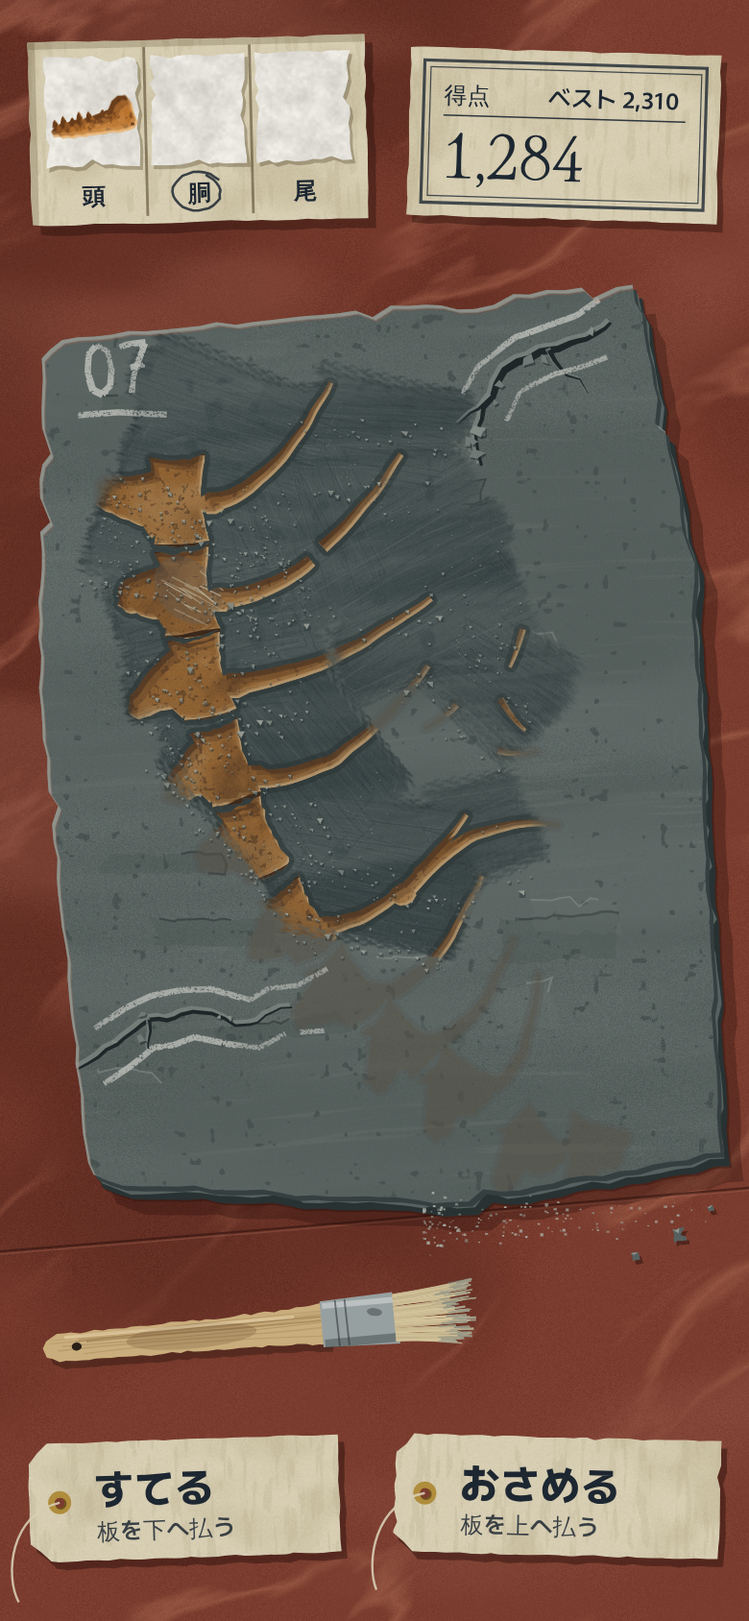
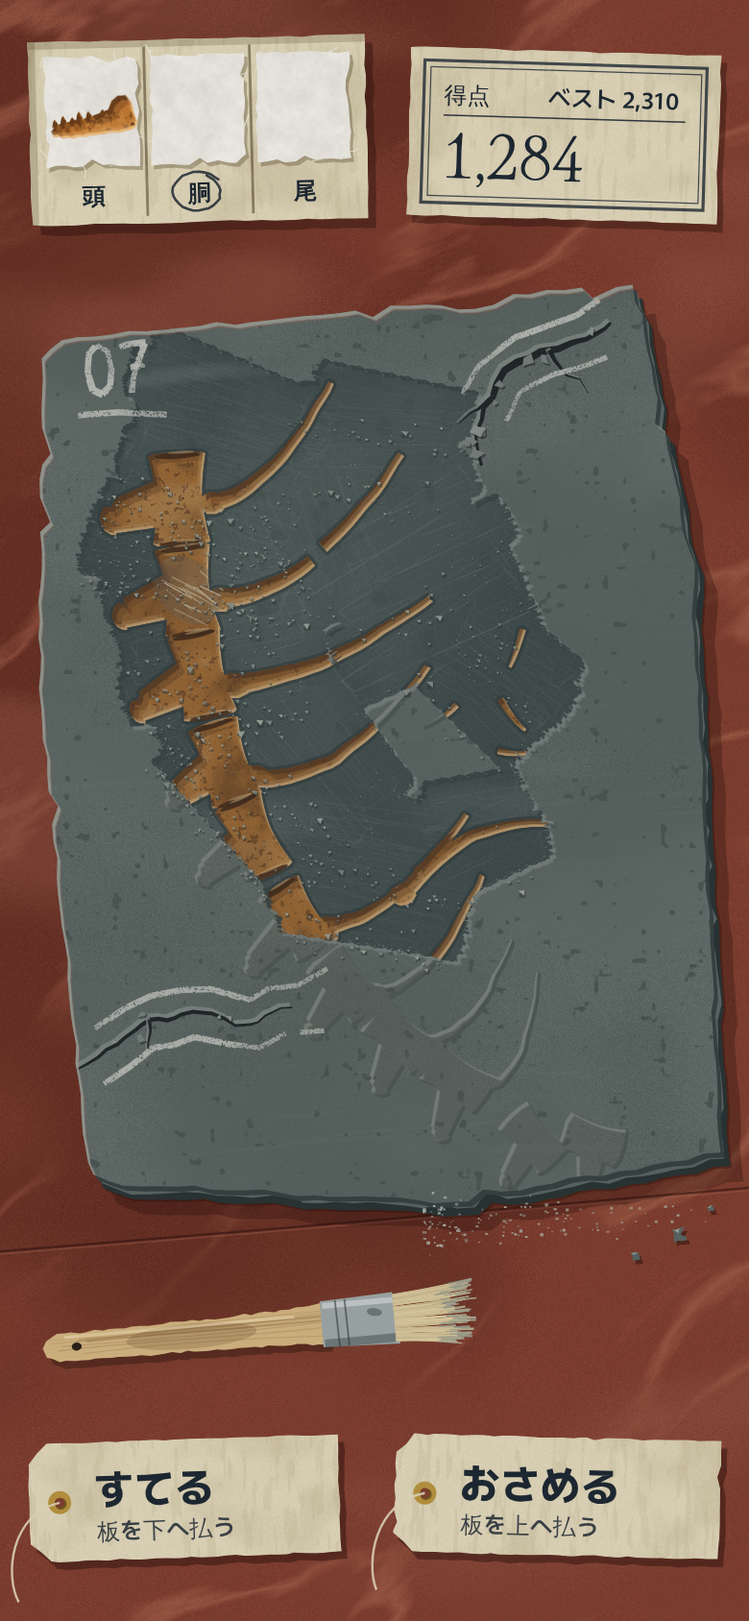
arcade: 012 デザイン事前審査 PASS（作業中）
Claude-Session: https://claude.ai/code/session_01QkUvG7rhwuqzh5G9T4Jq1S

diff --git a/arcade/games/012-fossil-brush/design/shale.js b/arcade/games/012-fossil-brush/design/shale.js
@@ -79,24 +79,33 @@ function rot(pts, cx, cy, a) { const c = Math.cos(a), s = Math.sin(a); return pt
 // ---------- 骨の部品（架空の生き物「ながくびとかげ」「よろいうお」） ----------
 // 椎骨: 糸巻き形の椎体＋傾いた棘突起＋前後の小さな突起。1個ずつ形を変える
 function vertebra(cx, cy, ang, len, hgt, seed, flip = 1) {
-  setSeed(seed); const L = len / 2, H = hgt / 2, k = rr(0.7, 0.8), lean = rr(-0.1, 0.18) * len;
-  // 椎体: 上下がくびれ、両端がふくらむ糸巻き
-  const body = []; for (let i = 0; i <= 12; i++) { const t = i / 12, x = -L + t * len, pinch = 1 - (1 - k) * Math.sin(Math.PI * t); body.push([x, -H * pinch]); }
-  body.push([L + rr(1, 2.5), -H * 0.45], [L + rr(1.5, 3), H * 0.1], [L + rr(1, 2.5), H * 0.55]);
-  for (let i = 12; i >= 0; i--) { const t = i / 12, x = -L + t * len, pinch = 1 - (1 - k) * Math.sin(Math.PI * t); body.push([x, H * pinch]); }
-  body.push([-L + rr(1.5, 3), H * 0.4], [-L + rr(2, 3.5), 0], [-L + rr(1.5, 3), -H * 0.4]);
-  // 神経弓＋棘突起: 椎体の上の台形から立つ、幅のある板。上の端は丸く、角が1つ欠ける
-  const sp = hgt * rr(0.8, 1.05), bw = len * rr(0.72, 0.82), tw = len * rr(0.34, 0.44), top = -H * k - sp;
-  const spine = [[-bw / 2, -H * k + 2], [-bw / 2 + 3, -H * k - sp * 0.22], [-tw / 2 + lean, top + 5], [-tw / 2 + lean + 3.5, top + rr(0, 1)], [tw / 2 + lean - 4, top - rr(0.5, 2)], [tw / 2 + lean, top + rr(3, 6)], [bw / 2 - 3, -H * k - sp * 0.25], [bw / 2 + rr(2, 4), -H * k - sp * 0.12], [bw / 2, -H * k + 2]];
+  setSeed(seed); const L = len / 2, H = hgt / 2, k = rr(0.74, 0.82), lean = rr(0.18, 0.26) * len; // 棘は尾の側へ傾く
+  // 椎体: 左右の端が少し広がった短い円柱（上下の辺はなめらかにくびれる。尖った角を作らない）
+  const body = [];
+  for (let i = 0; i <= 14; i++) { const t = i / 14, x = -L + t * len, pinch = 1 - (1 - k) * Math.sin(Math.PI * t); body.push([x, -H * pinch]); }
+  for (let i = 0; i <= 6; i++) { const a = -Math.PI / 2 + i / 6 * Math.PI; body.push([L + Math.cos(a) * rr(1.6, 2.4), Math.sin(a) * H]); }
+  for (let i = 14; i >= 0; i--) { const t = i / 14, x = -L + t * len, pinch = 1 - (1 - k) * Math.sin(Math.PI * t); body.push([x, H * pinch]); }
+  for (let i = 0; i <= 6; i++) { const a = Math.PI / 2 + i / 6 * Math.PI; body.push([-L + Math.cos(a) * rr(1.2, 2), Math.sin(a) * H]); }
+  // 棘: 1本の幅広い板。先は丸く、丸い角が1つだけ欠ける
+  const sp = hgt * rr(0.95, 1.15), bw = len * rr(0.5, 0.56), tw = len * rr(0.34, 0.4), base = -H * k + 3, top = -H * k - sp;
+  const spine = [[-bw / 2 + lean * 0.15, base], [-tw / 2 + lean * 0.85, top + tw * 0.5]];
+  const chipAt = (rnd() * 7) | 0;
+  for (let i = 0; i <= 8; i++) { const a = Math.PI + i / 8 * Math.PI, r = tw / 2 * (i === chipAt ? 0.72 : 1); spine.push([lean + Math.cos(a) * r, top + tw / 2 + Math.sin(a) * r * 0.9]); }
+  spine.push([tw / 2 + lean * 0.85, top + tw * 0.5], [bw / 2 + lean * 0.15, base]);
   const f = (p) => rot(p.map(([x, y]) => [x, y * flip]), cx, cy, ang);
-  return [f(chipped(body, 3, 0.35, 0.03, 1.5)), f(chipped(spine, 3, 0.4, 0.05, 2))];
+  const v = [f(body), f(spine)];
+  v.ends = [[cx + Math.cos(ang) * (L + 0.5), cy + Math.sin(ang) * (L + 0.5)], [cx - Math.cos(ang) * (L - 0.5), cy - Math.sin(ang) * (L - 0.5)]].map((p) => [...p, ang, H * 0.78]);
+  return v;
 }
+// 関節面: 椎体の両端に暗い細い楕円（骨の層に描く）
+function vertebraEnds(L, list) { for (const [x, y, a, r] of list) { L.save(); L.translate(x, y); L.rotate(a); L.fillStyle = "rgba(70,36,14,0.9)"; L.beginPath(); L.ellipse(0, 0, 1.6, r, 0, 0, 7); L.fill(); L.fillStyle = "rgba(240,195,137,0.5)"; L.beginPath(); L.ellipse(-1.6, -r * 0.2, 0.7, r * 0.6, 0, 0, 7); L.fill(); L.restore(); } }
 // 肋骨: 先へ細くなる弓なりの帯。折れていれば2本に分けてずらす
 function rib(p0, p1, p2, w0, seed, brk = -1, shift = [0, 0]) {
   setSeed(seed); const pts = quad(p0, p1, p2, 26).map(([x, y], i) => [x + (vnoise(i * 0.4, seed, 3) - 0.5) * 1.4, y + (vnoise(i * 0.4, seed, 7) - 0.5) * 1.4]);
-  const w = (t) => w0 * (1 - t * 0.72) * (t < 0.08 ? 0.75 + t * 3 : 1);
+  const w = (t) => w0 * (1 - Math.pow(t, 0.8) * 0.66) * (t < 0.08 ? 0.75 + t * 3 : 1);
   const [hx, hy] = pts[1], knob = []; for (let i = 0; i < 10; i++) { const a = i / 10 * Math.PI * 2; knob.push([hx + Math.cos(a) * w0 * 0.75 * rr(0.85, 1.1), hy + Math.sin(a) * w0 * 0.6]); }
-  if (brk < 0) return [ribbon(pts, w), knob];
+  const jag = (poly) => { const n = poly.length / 2, A = poly[n - 1], B = poly[n], dx = pts[pts.length - 1][0] - pts[pts.length - 3][0], dy = pts[pts.length - 1][1] - pts[pts.length - 3][1], dl = Math.hypot(dx, dy) || 1; const m = [(A[0] + B[0]) / 2 + (A[0] - B[0]) * rr(-0.3, 0.3) + dx / dl * rr(-3, 1.5), (A[1] + B[1]) / 2 + (A[1] - B[1]) * rr(-0.3, 0.3) + dy / dl * rr(-3, 1.5)]; poly.splice(n, 0, m); return poly; };
+  if (brk < 0) return [jag(ribbon(pts, w)), knob];
   const n = Math.round(brk * 26), a = pts.slice(0, n + 1), b = pts.slice(n).map(([x, y]) => [x + shift[0], y + shift[1]]);
   return [ribbon(a, (t) => w(t * brk)), ribbon(b, (t) => w(brk + t * (1 - brk))), knob];
 }
@@ -129,14 +138,17 @@ function boneLayer(mask, seed, pits = []) {
 
 // ---------- 母岩 ----------
 // 掘った後の母岩: 青鈍の層理（不揃いな幅・明るさ）＋ごくまばらな雲母
-function shaleTex(w, h, seed, ang) {
-  const A = rgb("#3c4849"), Bc = rgb("#5a6664"), Lm = rgb("#7d8883"), F = rgb("#b9beb4"), sn = Math.sin(ang), cs = Math.cos(ang);
+function shaleTex(w, h, seed, ang, nb) {
+  const A = rgb("#404c4d"), Bc = rgb("#55615f"), Lm = rgb("#6f7a76"), F = rgb("#b9beb4"), sn = Math.sin(ang), cs = Math.cos(ang);
+  setSeed(seed * 7 + 1); const n = nb || (2 + (rnd() < 0.5 ? 1 : 0)), bands = [];
+  let u = h * rr(0.1, 0.25); for (let k = 0; k < n; k++) { bands.push([u, rr(3, 14), rr(0.5, 1), rnd() < 0.7 ? 1 : -1]); u += h * rr(0.18, 0.5); }
   return pixelTex(w, h, (x, y, px, py) => {
-    const u = -x * sn + y * cs + 14 * fbm(x * 0.012, y * 0.012, seed + 2, 3), v = x * cs + y * sn;
-    const band = fbm(u * 0.035, v * 0.002, seed, 4); let c = mixc(A, Bc, sstep(0.3, 0.72, band));
-    const thin = fbm(u * 0.11, v * 0.018, seed + 9, 3); c = mixc(c, Lm, sstep(0.68, 0.76, thin) * 0.3 * sstep(0.4, 0.7, fbm(v * 0.02, u * 0.01, seed + 4, 3)));
-    const pits = fbm(x * 0.09, y * 0.09, seed + 13, 2); c = mixc(c, A, sstep(0.68, 0.8, pits) * 0.5);
-    const n = hash2(px, py, seed); if (n > 0.9975 && fbm(x * 0.02, y * 0.02, seed + 21, 2) > 0.52) c = mixc(c, F, 0.7);
+    const uu = -x * sn + y * cs + 7 * (fbm(x * 0.008, y * 0.004, seed + 2, 2) - 0.5) * 2, v = x * cs + y * sn;
+    let c = mixc(A, Bc, sstep(0.3, 0.75, fbm(x * 0.007, y * 0.007, seed, 4)));
+    for (let k = 0; k < bands.length; k++) { const [u0, bw, st, sg] = bands[k], d = Math.abs(uu - u0) / bw; if (d > 1.6) continue;
+      const fade = sstep(0.38, 0.62, fbm(v * 0.008 + k * 13, k * 7.3, seed + 4, 3)) * st, amt = Math.max(0, 1 - d * d) * fade; c = mixc(c, sg > 0 ? Lm : A, amt * 0.7); }
+    const pits = fbm(x * 0.09, y * 0.09, seed + 13, 2); c = mixc(c, A, sstep(0.7, 0.8, pits) * 0.4);
+    const nn = hash2(px, py, seed); if (nn > 0.9975 && fbm(x * 0.02, y * 0.02, seed + 21, 2) > 0.52) c = mixc(c, F, 0.7);
     const g = (hash2(px, py, seed + 1) - 0.5) * (6 + 10 * fbm(x * 0.03, y * 0.03, seed + 3, 2)); return [c[0] + g, c[1] + g, c[2] + g, 1];
   });
 }
@@ -145,8 +157,8 @@ function crustTex(w, h, seed, ang) {
   const A = rgb("#636d69"), Bc = rgb(C.crust), Lt = rgb("#8f978f"), Dk = rgb("#4c5653"), sn = Math.sin(ang), cs = Math.cos(ang);
   return pixelTex(w, h, (x, y, px, py) => {
     const u = -x * sn + y * cs + 12 * fbm(x * 0.008, y * 0.008, seed + 2, 3), v = x * cs + y * sn;
-    let c = mixc(A, Bc, sstep(0.28, 0.72, fbm(u * 0.025, v * 0.004, seed, 4)));
-    const st = fbm(u * 0.32, v * 0.012, seed + 6, 3); c = mixc(c, Lt, sstep(0.6, 0.78, st) * 0.22 * sstep(0.4, 0.65, fbm(v * 0.012, u * 0.02, seed + 7, 2)));
+    let c = mixc(A, Bc, sstep(0.28, 0.72, fbm(u * 0.012, v * 0.008, seed, 4)));
+    const st = fbm(u * 0.32, v * 0.012, seed + 6, 3); c = mixc(c, Lt, sstep(0.62, 0.78, st) * 0.1 * sstep(0.4, 0.65, fbm(v * 0.012, u * 0.02, seed + 7, 2)));
     const pit = fbm(x * 0.2, y * 0.2, seed + 8, 2); c = mixc(c, Dk, sstep(0.76, 0.84, pit) * 0.8);
     const g = (hash2(px, py, seed) - 0.5) * (6 + 14 * sstep(0.35, 0.7, fbm(x * 0.015, y * 0.015, seed + 11, 2))); return [c[0] + g, c[1] + g, c[2] + g * 0.95, 1];
   });
@@ -160,7 +172,7 @@ function flakeSteps(g, cx, cy, rw, rh, ang, n, seed) {
     const low = rnd() < 0.6; g.fillStyle = low ? "rgba(70,80,77,0.22)" : "rgba(150,158,150,0.14)"; g.fill(pathOf(p));
     // 段の縁は一辺の一部だけ（低い段は上側が暗い崖、高い段は上側が明るい）
     const i0 = (rnd() * p.length * 0.3) | 0, edge = p.slice(i0, i0 + Math.max(3, (p.length * rr(0.2, 0.4)) | 0));
-    g.strokeStyle = low ? "rgba(38,46,46,0.55)" : "rgba(178,185,175,0.5)"; g.lineWidth = rr(0.8, 1.3); g.stroke(pathOf(edge, false));
+    g.strokeStyle = "rgba(170,178,168,0.45)"; g.lineWidth = rr(0.8, 1.3); g.stroke(pathOf(edge, false));
   }
 }
 // 作業台: 弁柄のリノリウム。ゆがんだ大理石模様（筋は斜め・途切れる）、すり減った明るい所、細かい傷
@@ -183,7 +195,7 @@ function bristleStamps(width, n = 4) {
   const out = [];
   for (let k = 0; k < n; k++) {
     setSeed(900 + k); const s = makeCanvas(width + 8, 14);
-    for (let i = 0; i < width * 2.2; i++) { const x = 4 + rr(0, width), lenY = rr(2, 9) * (1 - Math.pow(Math.abs(x - 4 - width / 2) / (width / 2), 3) * 0.7); s.fillStyle = `rgba(0,0,0,${rr(0.15, 0.55)})`; s.fillRect(x, 7 - lenY / 2 + rr(-1.5, 1.5), rr(0.6, 1.4), lenY); }
+    for (let i = 0; i < width * 2.2; i++) { const x = 4 + rr(0, width), lenY = rr(2, 9) * (1 - Math.pow(Math.abs(x - 4 - width / 2) / (width / 2), 3) * 0.7); s.fillStyle = "#000"; s.fillRect(Math.round(x * 2) / 2, Math.round((7 - lenY / 2 + rr(-1.5, 1.5)) * 2) / 2, rr(1, 1.6), lenY); }
     out.push(s);
   }
   return out;
@@ -201,7 +213,7 @@ function scrape(layer, stamps, pts, strength = 0.5, step = 2.2) {
 function brushTracks(g, pts, width, seed) {
   setSeed(seed); const r = resample(pts, 3);
   for (let k = 0; k < width * 0.22; k++) {
-    const off = rr(-width / 2, width / 2), lt = rnd() < 0.5; g.strokeStyle = lt ? "rgba(140,152,146,0.14)" : "rgba(30,40,42,0.16)"; g.lineWidth = rr(0.4, 0.9); g.beginPath();
+    const off = rr(-width / 2, width / 2), lt = rnd() < 0.5; g.strokeStyle = lt ? "rgba(140,152,146,0.14)" : "rgba(120,132,128,0.10)"; g.lineWidth = rr(0.4, 0.9); g.beginPath();
     let started = false; for (let i = 1; i < r.length; i++) { const [ax, ay] = r[i - 1], [bx, by] = r[i]; let nx = -(by - ay), ny = bx - ax; const n = Math.hypot(nx, ny) || 1; nx /= n; ny /= n; if (vnoise(i * 0.15, k, seed) < 0.45) { started = false; continue; } const x = bx + nx * off, y = by + ny * off; started ? g.lineTo(x, y) : g.moveTo(x, y); started = true; }
     g.stroke();
   }
@@ -304,3 +316,22 @@ function stampText(g, txt, x, y, font, seed, col = C.ink, a = 0.9) {
   s.globalCompositeOperation = "destination-out"; for (let i = 0; i < 260; i++) { s.fillStyle = `rgba(0,0,0,${rr(0.3, 0.9)})`; s.fillRect(x + rr(-4, g.measureText(txt).width + 4), y + rr(-30, 6), rr(0.6, 2.4), rr(0.6, 1.8)); }
   g.globalAlpha = a * 0.35; blit(g, s, 1.6, 1.2); g.globalAlpha = a; blit(g, s); g.restore();
 }
+
+// こする前の骨の影 = 浮き彫り（左上に明るい縁・右下に暗い縁。ぼかさない。茶は alpha 0.1）
+function ghostRelief(crust, mask) {
+  crust.save(); crust.globalCompositeOperation = "source-atop";
+  blit(crust, tint(mask, "#6b5d48", 0.1));
+  blit(crust, tint(rim(mask, 1.6, 1.6), "#8d968f", 1));
+  blit(crust, tint(rim(mask, -1.6, -1.6), "#545e5c", 1));
+  crust.restore();
+}
+// ただの石の模様: 灰色で、縁がにじむ（ずらし重ねの作り置き）。浮き彫りは無い
+function ghostFake(crust, mask) { crust.save(); crust.globalCompositeOperation = "source-atop"; blit(crust, tint(spread(mask, 5, 14), "#5f6764", 0.06)); blit(crust, tint(spread(mask, 2.5, 10), "#5f6764", 0.08)); crust.restore(); }
+// 削った穴の縁の厚み: 穴の右下側に明るい欠け面、左上側の縁から穴へ落ちる硬い影（一筆ごとに作り直す）
+function crustEdges(S, crust) {
+  const sh = makeCanvas(crust.W, crust.H); blit(sh, crust, 2.5, 2.5); sh.globalCompositeOperation = "destination-out"; blit(sh, crust); blit(S, tint(sh, "#3a4546", 1));
+  blit(S, crust);
+  blit(S, tint(rim(crust, 1.8, 1.8), "#8a938e", 1));
+}
+// 骨のまわりの暗いにじみ（骨の縁から 1.5px だけ）
+function boneHalo(S, mask) { blit(S, tint(spread(mask, 1.5, 10), "#2c3637", 0.6)); }

diff --git a/arcade/games/012-fossil-brush/design/sheet.html b/arcade/games/012-fossil-brush/design/sheet.html
@@ -31,17 +31,16 @@ function panel(x, y, w, h, seed, inside, opt = {}) {
   const e = makeCanvas(w + 10, h + 10); e.fill(pathOf(shape)); blit(S, tint(rim(e, 1.4, 1.6), "#9aa29a", 0.7));
   g.drawImage(S.canvas, 0, 0, S.W, S.H); g.restore();
 }
+function vChain(x, y, a, n, len, hgt, seed, out, ends, flip = -1, bend = 0.06) { for (let i = 0; i < n; i++) { const l = len - i * 1.5, vv = vertebra(x, y, a, l, hgt - i, seed + i, flip); vv.c = [x, y, a, hgt - i]; out.push(...vv); ends.push(...vv.ends); if (out.cs) out.cs.push(vv.c); x += Math.cos(a) * (l + 2); y += Math.sin(a) * (l + 2); a += bend; } }
 function boneSet(w, h, parts) { const m = boneMask(w, h, parts); return [m, boneLayer(m, 61 + parts.length)]; }
-function putBones(S, m, L) { blit(S, tint(spread(m, 2.4), "#263031", 0.6)); blit(S, L); }
+function putBones(S, m, L) { boneHalo(S, m); blit(S, L); }
 function crustOver(S, m, seed, strokes, ghost = "real") {
   const cr = crustTex(S.W, S.H, seed, -0.05);
   cr.globalCompositeOperation = "source-atop";
-  if (ghost === "real") { blit(cr, tint(spread(m, 2.2, 10), "#5b5448", 0.22)); blit(cr, tint(m, "#6b5d48", 0.38)); }
-  if (ghost === "fake") { blit(cr, tint(spread(m, 6, 14), "#575f5c", 0.10)); blit(cr, tint(spread(m, 3, 10), "#5d6461", 0.12)); }
   cr.globalCompositeOperation = "source-over";
-  const st = bristleStamps(22); for (const [p, s] of strokes) scrape(cr, st, p, s);
-  const sh = makeCanvas(S.W, S.H); blit(sh, cr, 2, 2.6); sh.globalCompositeOperation = "destination-out"; blit(sh, cr); blit(S, tint(sh, "#1b2324", 0.55));
-  blit(S, cr); for (const [p, s] of strokes) dustPiles(S, p, 22, seed + p.length, s * 0.35);
+  if (ghost === "real") ghostRelief(cr, m); if (ghost === "fake") ghostFake(cr, m);
+  const st = bristleStamps(22); for (const [p, s] of strokes) scrape(cr, st, p, 1);
+  crustEdges(S, cr); for (const [p, s] of strokes) dustPiles(S, p, 22, seed + p.length, s * 0.35);
 }
 const zig = (x, y, a, len, wid, n, j) => { setSeed(j); const o = []; const tx = Math.cos(a), ty = Math.sin(a), nx = -ty, ny = tx; for (let i = 0; i <= n; i++) { const s = (i % 2 ? 1 : -1) * len / 2 * rr(0.75, 1.05), q = -wid / 2 + wid * i / n + rr(-2, 2); o.push([x + tx * s + nx * q, y + ty * s + ny * q]); } return o; };
 
@@ -82,8 +81,8 @@ async function draw() {
   // ---- 骨の部品 ----
   head("骨の部品（架空の「ながくびとかげ」「よろいうお」）。輪郭線は引かず、陰と明るい縁で形を出す", 30, 432);
   panel(30, 448, 840, 214, 90, (S) => {
-    const parts = [];
-    [[50, 130, -0.06], [104, 127, 0.02], [156, 129, 0.08], [222, 140, 0.4]].forEach(([x, y, a], i) => parts.push(...vertebra(x, y, a, 50 - i * 2, 32 - i, 610 + i, 1)));
+    const parts = [], ends = [];
+    parts.cs = []; vChain(40, 104, 0.35, 4, 44, 28, 610, parts, ends, -1, -0.12); parts.cs.forEach(([x, y, a, h], k) => { if (k === 3) return; const nx = Math.sin(a), ny = -Math.cos(a), tx = Math.cos(a), ty = Math.sin(a), L = 70 - k * 8; parts.push(...rib([x + nx * h * 0.42 + tx * 6, y + ny * h * 0.42 + ty * 6], [x + nx * L * 0.5 + tx * 14, y + ny * L * 0.5 + ty * 14], [x + nx * L - tx * 20, y + ny * L - ty * 20], 9, 615 + k)); });
     parts.push(...rib([300, 60], [370, 40], [420, 150], 12, 620));
     parts.push(...rib([440, 50], [500, 60], [520, 170], 11, 621, 0.5, [8, 4]));
     setSeed(630); for (let k = 0; k < 3; k++) { const x = 560 + k * 18, y = 70 + k * 30; parts.push(ribbon(quad([x, y], [x + 18, y + 8], [x + 40, y + 6], 8), (t) => 5 * (1 - t * 0.5))); }
@@ -91,20 +90,20 @@ async function draw() {
     const [m, L] = boneSet(S.W, S.H, parts);
     // よろいうおの鱗板の粒（盛り上がり）
     setSeed(650); for (let k = 0; k < 90; k++) { const x = rr(640, 800), y = rr(46, 170); L.fillStyle = "rgba(240,195,137,0.7)"; L.beginPath(); L.arc(x - 0.5, y - 0.5, rr(1, 2), 0, 7); L.fill(); L.fillStyle = "rgba(94,52,24,0.6)"; L.beginPath(); L.arc(x + 0.8, y + 0.9, rr(0.8, 1.6), 0, 7); L.fill(); }
-    L.globalCompositeOperation = "destination-in"; blit(L, m); L.globalCompositeOperation = "source-over";
+    vertebraEnds(L, ends); L.globalCompositeOperation = "destination-in"; blit(L, m); L.globalCompositeOperation = "source-over";
     putBones(S, m, L);
   });
-  [["椎骨: 糸巻きの椎体＋幅のある棘", 40, 672, 250], ["肋骨: 根元にこぶ。折れはずらす", 300, 672, 230], ["腹肋: 細い棒", 545, 672, 96], ["鱗板: 角ばった板＋粒", 650, 672, 190]].forEach(([t, x, y, w], i) => slip(x, y, w, 30, [[t]], 30 + i, i % 2 ? 0.008 : -0.008));
+  [["椎骨: 糸巻き＋丸い棘。2個以上つなぐ", 40, 672, 250], ["肋骨: 根元にこぶ。折れはずらす", 300, 672, 230], ["腹肋: 細い棒", 545, 672, 96], ["鱗板: 角ばった板＋粒", 650, 672, 190]].forEach(([t, x, y, w], i) => slip(x, y, w, 30, [[t]], 30 + i, i % 2 ? 0.008 : -0.008));
 
   // ---- 見分け ----
   head("見分け: 骨・ひび・石目・影を、色と縁の硬さで分ける", 30, 744);
   const pw = 200, ph = 160, py = 760;
-  panel(30, py, pw, ph, 101, (S) => { const [m, L] = boneSet(S.W, S.H, [...vertebra(70, 104, 0.1, 50, 32, 701, 1), ...rib([96, 76], [150, 60], [186, 120], 11, 702)]); putBones(S, m, L); });
+  panel(30, py, pw, ph, 101, (S) => { const pa = [], en = []; vChain(30, 50, 0.6, 2, 42, 27, 701, pa, en, -1, -0.15); pa.push(...rib([62, 52], [120, 40], [180, 74], 10, 702)); const [m, L] = boneSet(S.W, S.H, pa); vertebraEnds(L, en); L.globalCompositeOperation = "destination-in"; blit(L, m); L.globalCompositeOperation = "source-over"; putBones(S, m, L); });
   panel(250, py, pw, ph, 102, (S) => { const c = crackPath(10, 120, -0.45, 200, 12, 0.5); drawCrack(S, c, 12, 0.25, [[c[12][0], c[12][1], 0.6, 22, 4]]); });
   panel(470, py, pw, ph, 103, (S) => { blit(S, shaleTex(S.W, S.H, 140, -0.2)); }, { ang: -0.2 });
-  panel(690, py, pw, ph, 104, (S) => { const mk = (ox) => vertebra(ox, 96, 0.1, 42, 28, 705, 1); const [m1] = boneSet(S.W, S.H, mk(52)); const [m2] = boneSet(S.W, S.H, mk(150));
-    const cr = crustTex(S.W, S.H, 14, -0.05); cr.globalCompositeOperation = "source-atop"; blit(cr, tint(spread(m1, 2.2, 10), "#5b5448", 0.22)); blit(cr, tint(m1, "#6b5d48", 0.38)); blit(cr, tint(spread(m2, 6, 14), "#575f5c", 0.10)); blit(cr, tint(spread(m2, 3, 10), "#5d6461", 0.12)); cr.globalCompositeOperation = "source-over"; blit(S, cr); });
-  [["骨: 飴色。縁が硬く右下に陰", 30], ["ひび: 黒い裂け目＋欠けた唇", 250], ["石目: ぼやけた帯。線にしない", 470], ["影: 左＝本物（茶がかって縁がはっきり）／右＝ただの石（灰で、にじむ）", 690]].forEach(([t, x], i) => slip(x, py + ph + 12, pw, i === 3 ? 48 : 30, i === 3 ? [["影 左: 本物（茶・縁が出る）"], ["影 右: ただの石（灰・にじむ）"]] : [[t]], 40 + i, i % 2 ? 0.01 : -0.01));
+  panel(690, py, pw, ph, 104, (S) => { const p1 = [], p2 = [], e = []; vChain(16, 52, 0.75, 2, 36, 23, 705, p1, e, -1, -0.15); vChain(112, 52, 0.75, 2, 36, 23, 705, p2, e, -1, -0.15); const [m1] = boneSet(S.W, S.H, p1); const [m2] = boneSet(S.W, S.H, p2);
+    const cr = crustTex(S.W, S.H, 14, -0.05); ghostRelief(cr, m1); ghostFake(cr, m2); blit(S, cr); });
+  [["骨: 飴色。縁が硬く右下に陰", 30], ["ひび: 黒い裂け目＋欠けた唇", 250], ["石目: ぼやけた帯。線にしない", 470], ["影: 左＝本物（茶がかって縁がはっきり）／右＝ただの石（灰で、にじむ）", 690]].forEach(([t, x], i) => slip(x, py + ph + 12, pw, i === 3 ? 48 : 30, i === 3 ? [["影 左: 本物（浮き彫りの縁）"], ["影 右: ただの石（にじむだけ）"]] : [[t]], 40 + i, i % 2 ? 0.01 : -0.01));
 
   // ---- ひびの段階 ----
   head("ひび: こするたびに伸びて太る（ゲージは出さない）", 30, 1006);
@@ -119,9 +118,9 @@ async function draw() {
       const A = [[0, 0], [pw, 0], [pw, c[c.length - 1][1]], ...c.slice().reverse().map(([px, py2]) => [Math.min(pw, Math.max(0, px)), py2])];
       const B = [...c.map(([px, py2]) => [Math.min(pw, Math.max(0, px)), py2]), [pw, ch], [0, ch]];
       g.save(); g.translate(x, cy);
-      for (const [poly, dx, dy, sd] of [[A, -3, -5, 131], [B, 4, 6, 132]]) {
-        const P = chipped(poly, 8, 1.2, 0.05, 3).map(([px, py2]) => [px + dx, py2 + dy]);
-        g.fillStyle = "rgba(38,14,10,0.32)"; g.fill(pathOf(P.map(([p, q]) => [p + 8, q + 10]))); g.fillStyle = "#283233"; g.fill(pathOf(P.map(([p, q]) => [p + 3.5, q + 5])));
+      for (const [poly, dx, dy, sd, ra] of [[A, -2, -4, 131, 0], [B, 2, 3, 132, 0.055]]) {
+        const P = rot(chipped(poly, 8, 1.2, 0.05, 3).map(([px, py2]) => [px, py2 - ch]), 0, ch, ra).map(([px, py2]) => [px + dx, py2 + dy]);
+        g.fillStyle = "rgba(24,8,6,0.5)"; g.fill(pathOf(P.map(([p, q]) => [p + 5, q + 8]))); g.fillStyle = "#141b1d"; g.fill(pathOf(P.map(([p, q]) => [p + 1.5, q + 4]))); g.fillStyle = "#283233"; g.fill(pathOf(P.map(([p, q]) => [p + 3.5, q + 5.5])));
         const S = makeCanvas(pw + 20, ch + 20); blit(S, shaleTex(pw + 20, ch + 20, sd, -0.05)); S.globalCompositeOperation = "destination-in"; S.fill(pathOf(P)); S.globalCompositeOperation = "source-over";
         const e = makeCanvas(pw + 20, ch + 20); e.fill(pathOf(P)); blit(S, tint(rim(e, 1.4, 1.6), "#9aa29a", 0.7)); blit(S, tint(rim(e, -2, -2.5), "#141b1d", 0.6)); g.drawImage(S.canvas, 0, 0, S.W, S.H);
       }
@@ -134,11 +133,11 @@ async function draw() {
   // ---- こすりの段階 ----
   head("こする: 上の層がはがれ、粉は筋の脇と終わりに寄る", 30, 1246);
   const sy = 1262, sh2 = 140;
-  const vb = () => [...vertebra(80, 92, 0.15, 48, 30, 801, 1), ...rib([104, 96], [150, 46], [186, 110], 11, 802)];
+  const vb = () => { const pa = [], en = []; vChain(34, 46, 0.6, 2, 42, 27, 801, pa, en, -1, -0.15); pa.push(...rib([66, 50], [124, 38], [184, 72], 10, 802)); pa.ends = en; return pa; };
   [["こする前（骨の影だけ）", []], ["こすった（骨が出る）", [[zig(100, 80, 0.4, 120, 90, 14, 61), 0.85], [zig(140, 70, -0.3, 90, 60, 9, 62), 0.8]]], ["こすりすぎ（傷・くすみ）", "over"], ["8割を超えた（ひと段明るく）", "ready"]].forEach(([label, st], i) => {
     const x = 30 + i * 220;
     panel(x, sy, pw, sh2, 140 + i, (S) => {
-      const [m, L] = boneSet(S.W, S.H, vb());
+      const vbp = vb(); const [m, L] = boneSet(S.W, S.H, vbp); vertebraEnds(L, vbp.ends); L.globalCompositeOperation = 'destination-in'; blit(L, m); L.globalCompositeOperation = 'source-over';
       if (st === "over" || st === "ready") {
         if (st === "over") { setSeed(9); const sc = makeCanvas(S.W, S.H); sc.fillStyle = "rgba(120,110,96,0.4)"; sc.fillRect(0, 0, S.W, S.H); for (let k = 0; k < 26; k++) { const ox = rr(50, 120), oy = rr(54, 110), a = 0.5 + rr(-0.2, 0.2), l = rr(8, 22); sc.strokeStyle = `rgba(246,226,190,${rr(0.5, 0.9)})`; sc.lineWidth = rr(0.4, 0.8); sc.beginPath(); sc.moveTo(ox, oy); sc.lineTo(ox + Math.cos(a) * l, oy + Math.sin(a) * l); sc.stroke(); } sc.globalCompositeOperation = "destination-in"; blit(sc, m); blit(L, sc); }
         if (st === "ready") { const lift = tint(m, "#e9b877", 0.28); blit(L, lift); blit(L, tint(rim(m, -1.6, -1.8), "#f6d7a6", 0.9)); }

diff --git a/arcade/games/012-fossil-brush/design/scene.html b/arcade/games/012-fossil-brush/design/scene.html
@@ -37,7 +37,7 @@ async function draw() {
 
   // ---- 骨の形 ----
   const sp = quad([92, 212], [92, 540], [330, 600], 200);
-  const parts = [], pits = [], vcent = [];
+  const parts = [], pits = [], vcent = [], ends = [];
   const pick = (t) => { const i = Math.round(t * 200), a = sp[Math.max(0, i - 1)], b = sp[Math.min(200, i + 1)]; return [sp[i], Math.atan2(b[1] - a[1], b[0] - a[0])]; };
   const arc = [0]; for (let i = 1; i <= 200; i++) arc.push(arc[i - 1] + Math.hypot(sp[i][0] - sp[i - 1][0], sp[i][1] - sp[i - 1][1]));
   const atLen = (d) => { let i = 0; while (i < 200 && arc[i] < d) i++; return i / 200; };
@@ -47,7 +47,7 @@ async function draw() {
     let [[x, y], a] = pick(atLen(d + len / 2));
     if (i === 9) { x += 8; y += 14; a += 0.4; d += 8; } // ずれて外れた椎骨
     vcent.push([x, y, a, hgt]);
-    parts.push(...vertebra(x, y, a, len, hgt, 300 + i, -1));
+    { const vv = vertebra(x, y, a, len, hgt, 300 + i, -1); parts.push(...vv); ends.push(...vv.ends); }
     setSeed(400 + i); pits.push([x + rr(-8, 8), y + rr(-3, 3), rr(0.9, 1.7)]);
     d += len + 3 + (i === 4 ? 6 : 0);
   }
@@ -63,8 +63,8 @@ async function draw() {
   const mask = boneMask(W, H, parts);
   const bones = boneLayer(mask, 61, pits);
   // 椎骨どうしの関節のすき間（椎体の端に暗い線。少し曲げる）
-  { const jt = makeCanvas(W, H); vcent.forEach(([x, y, a, hgt], i) => { const len = 46 - i * 1.5, tx = Math.cos(a), ty = Math.sin(a), nx = -ty, ny = tx; for (const e of [-1, 1]) { const ex = x + tx * (len / 2 + e * 0.5) * e, ey = y + ty * (len / 2 + e * 0.5) * e; jt.strokeStyle = 'rgba(60,30,12,0.95)'; jt.lineWidth = 1.6; jt.beginPath(); jt.moveTo(ex - nx * hgt * 0.5, ey - ny * hgt * 0.5); jt.quadraticCurveTo(ex + tx * 2 * e, ey + ty * 2 * e, ex + nx * hgt * 0.5, ey + ny * hgt * 0.5); jt.stroke(); } });
-    jt.globalCompositeOperation = 'destination-in'; blit(jt, mask); blit(bones, jt); }
+  vertebraEnds(bones, ends);
+
   // こすりすぎた椎骨（2つ目）: 細い明るい引っかき傷と、くすみ
   { const [x, y] = vcent[1]; const sc = makeCanvas(W, H); setSeed(88); sc.fillStyle = "rgba(120,110,96,0.35)"; sc.beginPath(); sc.ellipse(x, y, 20, 15, 0.8, 0, 7); sc.fill();
     for (let k = 0; k < 14; k++) { const ox = x + rr(-14, 10), oy = y + rr(-10, 10), a = 0.55 + rr(-0.15, 0.15), l = rr(8, 20); sc.strokeStyle = `rgba(246,226,190,${rr(0.5, 0.9)})`; sc.lineWidth = rr(0.4, 0.8); sc.beginPath(); sc.moveTo(ox, oy); sc.lineTo(ox + Math.cos(a) * l, oy + Math.sin(a) * l); sc.stroke(); }
@@ -81,16 +81,15 @@ async function draw() {
     [zig(196, 226, 0.1, 90, 44, 7, 7), 0.45], [zig(262, 352, 0.6, 70, 50, 7, 8), 0.26], [zig(250, 430, -0.3, 60, 40, 6, 9), 0.3],
   ];
   for (const [p, s] of strokes) brushTracks(S, p, 26, 70 + p.length);
-  blit(S, tint(spread(mask, 2.6), "#263031", 0.6));
+  boneHalo(S, mask);
   blit(S, bones);
   // 上の層（こする前の面）＋骨の影
   const crust = crustTex(W, H, 31, ang);
-  flakeSteps(crust, 200, 400, 150, 210, ang, 16, 33);
-  { crust.globalCompositeOperation = "source-atop"; blit(crust, tint(spread(mask, 2.2, 10), "#5b5448", 0.22)); blit(crust, tint(mask, "#6b5d48", 0.38)); crust.globalCompositeOperation = "source-over"; }
+  ghostRelief(crust, mask);
   const stamps = bristleStamps(26);
-  for (const [p, s] of strokes) scrape(crust, stamps, p, Math.min(0.95, s * 1.5));
-  { const sh = makeCanvas(W, H); blit(sh, crust, 2, 2.6); sh.globalCompositeOperation = 'destination-out'; blit(sh, crust); const t2 = tint(sh, '#1b2324', 0.55); blit(S, t2); }
-  blit(S, crust);
+  for (const [p, s] of strokes) scrape(crust, stamps, p, 1);
+
+  crustEdges(S, crust);
   for (const [p, s] of strokes) dustPiles(S, p, 26, 90 + p.length, s * 0.32);
   // ひび
   const crA = crackPath(36, 560, -0.38, 158, 7, 0.45);
@@ -124,8 +123,8 @@ async function draw() {
   g.save(); g.clip(pathOf(trayShape)); g.drawImage(tray.canvas, 0, 0, 176, 96);
   g.fillStyle = "rgba(90,74,44,0.25)"; g.fillRect(0, 0, 176, 4); g.fillRect(0, 0, 4, 96);
   for (let k = 0; k < 3; k++) { const x0 = 8 + k * 55; // 区画の綿
-    const cot = pixelTex(50, 58, (x, y, px, py) => { const f = fbm(x * 0.12, y * 0.12, 200 + k, 4), w = fbm(x * 0.5, y * 0.5, 210 + k, 2); const v = 206 + f * 40 + (w - 0.5) * 18; return [v, v - 2, v - 9, 1]; });
-    const cs = chipped([[0, 0], [50, 0], [50, 58], [0, 58]], 5, 1.6, 0.1, 3); g.save(); g.translate(x0, 8); g.fillStyle = "rgba(80,66,40,0.35)"; g.fill(pathOf(cs.map(([a, b]) => [a + 1.5, b + 2]))); g.clip(pathOf(cs)); g.drawImage(cot.canvas, 0, 0, 50, 58); g.restore();
+    const cot = pixelTex(50, 58, (x, y, px, py) => { const f = fbm(x * 0.12, y * 0.12, 200 + k, 4), w = fbm(x * 0.5, y * 0.5, 210 + k, 2); const v = 216 + f * 20 + (w - 0.5) * 9; return [v, v - 2, v - 9, 1]; });
+    const cs = chipped([[0, 0], [50, 0], [50, 58], [0, 58]], 5, 1.6, 0.1, 3); g.save(); g.translate(x0, 8); g.fillStyle = "rgba(80,66,40,0.35)"; g.fill(pathOf(cs.map(([a, b]) => [a + 1.5, b + 2]))); g.save(); g.clip(pathOf(cs)); g.drawImage(cot.canvas, 0, 0, 50, 58); g.restore(); setSeed(260 + k); for (let f = 0; f < 9; f++) { const [fx, fy] = cs[(rnd() * cs.length) | 0], a = rr(0, 6.28), l = rr(3, 7); g.strokeStyle = 'rgba(232,229,218,0.85)'; g.lineWidth = 0.5; g.beginPath(); g.moveTo(fx, fy); g.quadraticCurveTo(fx + Math.cos(a) * l * 0.6 + rr(-2, 2), fy + Math.sin(a) * l * 0.6 + rr(-2, 2), fx + Math.cos(a) * l, fy + Math.sin(a) * l); g.stroke(); } g.restore();
     if (k < 2) { g.fillStyle = "rgba(60,44,20,0.5)"; g.fillRect(x0 + 52, 4, 1.4, 88); }
   }
   // 収めた「頭」のかけら: 歯の並ぶあごの骨

diff --git a/arcade/games/012-fossil-brush/design.md b/arcade/games/012-fossil-brush/design.md
@@ -1,7 +1,7 @@
 # デザインコンセプト: ひと刷けの骨（012 fossil-brush）
 
 - 合格ライン: ミニゲーム 8/10（「AIが作った感」スコア）
-- 状態: **下書き（事前審査待ち）**。見本（scene.png・sheet.png）は作成済み
+- 状態: **審査中（再審査待ち）**。1回目の事前審査は REVISE 7/10。指摘 1〜8・実装条件を反映した版（§10 末尾「修正内容」）
 
 ## 1. どの Core・Why に答える見た目か（product-layers）
 - Why「覚えることが多い・仕事を思い出す」へは、**開いた瞬間に「石の板・半分出た骨・刷毛」だけが目に入る**画面で答える。ボタンは2枚の札だけ、点数は標本ラベル1枚。ゲージ・アイコン列を置かない。
@@ -27,9 +27,9 @@
 
 ## 3. 形の言葉（シェイプランゲージ）
 - **板（頁岩）**: 四角ではなく、7角前後の欠けた多角形。縁は細かく欠け、ときどき大きく欠ける。右下に割れた層の段（厚み）が2枚見える。少し傾けて置く（-3〜-6°）
-- **骨**: 丸みのある「ふくらみ＋くびれ」。椎骨は糸巻き形の椎体＋幅のある板状の棘（上が丸く角が1つ欠ける）、肋骨は根元にこぶがあり先へ細る弓、腹肋は細い棒、よろいうおの鱗板は角ばった板に粒。**1つずつ形を変える**（同じ形のスタンプにしない）。折れた骨は2つに分けてずらす
+- **骨**: 丸みのある「ふくらみ＋くびれ」。椎骨は**糸巻きの椎体（両端が少し広がった短い円柱、両端の関節面に暗い細い楕円）＋尾の側へ傾いた1本の幅広で先の丸い棘**の2部品だけ（尖った角を作らない。欠けは丸い棘の角が1つ欠けるだけ）。**椎骨は必ず2個以上つなげて出す**（単独は「外れた骨」1個まで）。肋骨は根元にこぶ→先は根元の半分以下まで細り、先端は不揃いの折れ口、長さ方向に明暗のむら、腹肋は細い棒、よろいうおの鱗板は角ばった板に粒。**1つずつ形を変える**（同じ形のスタンプにしない）。折れた骨は2つに分けてずらす
 - **ひび**: 角ばった折れ線（3〜9px の短い辺）。枝分かれは短く1〜2本。骨の滑らかな曲線と形で区別できる
-- **石目（層理）**: 線ではなく**境目のぼやけた帯**。幅・明るさ不揃い、途中で消える
+- **石目（層理）**: 線ではなく**境目のぼやけた帯**を**1枚の板に2〜3本まで**。向きは板の傾き＋ゆるいうねり、板の端から端まで通さず途中で消える、間隔は 1:2.5 以上ばらつく。**板の上の黒い折れ線はひびだけ**（白線の無い細い黒い線・剥がれ段の暗い縁は置かない）
 - **UI**: 荷札（角を切った五角形＋鳩目）、刷った枠のラベル、紙のトレー。角丸カードは使わない。札は ±1〜2° ずつ別々に傾ける
 - シルエットの約束: 骨＝飴色の丸い塊、ひび＝黒い細い折れ線＋白い2本の線、粉＝白鼠の小さな三角の粒（筋の脇と終わりだけ）
 
@@ -101,7 +101,10 @@
   - ひびの伸びは 4段階程度の作り置きを切り替える（または伸びた時だけ④を描き直す）
   - `setLineDash` を使わない。乱数はシード固定（毎フレーム `Math.random()` で揺らさない）。devicePixelRatio は最大 2
   - 15px 未満の文字は札・ラベルの上だけ
-  - 実装後の `qa/start.png`・`qa/play.png` で §8 を再確認し、届かなければ実装ではなくこのコンセプトに戻る
+  - 実装後の `qa/start.png`・`qa/play.png` で §8 と §10 の 1・2・7 を再確認し、届かなければ実装ではなくこのコンセプトに戻る
+  - （再審査で追加）削った穴: スタンプは不透明（2値）で縁をぎざぎざのまま硬く。一筆終わったら「穴の左上の縁から落ちる硬い影 #3a4546（上の層を 2.5px ずらして上の層で抜く）」と「穴の右下側の明るい欠け面 #8a938e（上の層 − 1.8px ずらした上の層）」を作り直す（`crustEdges`）。骨のまわりのにじみは 1.5px だけ（`boneHalo`）
+  - （再審査で追加）こする前の骨の影は浮き彫り（`ghostRelief`: 骨の形の左上の縁 #8d968f・右下の縁 #545e5c を 1.6px、茶は alpha 0.1）。ただの石は灰がにじむだけで浮き彫り無し（`ghostFake`）。板が出たときに1回だけ作る
+  - （再審査で追加）ひびの当たり幅は白い2本線の間隔（片側 13px）と同じ。掘れた割合・8割・ひびの当たりは低解像度の格子（自前の配列）で数える
 
 ## 10. 事前審査
 - 審査者（作った本人以外）: ミニゲーム工場の美術監査（2026-10-13、下の「美術監査の判定」）
@@ -147,3 +150,42 @@
 - 判定: 1〜4 と 7 を直した見本で再審査すれば 8/10 に届く見込み（題材・配色・UI の骨組みは良いので、コンセプトの方向は変えない）
 
 VERDICT: REVISE
+
+### 修正内容（2026-10-13、デザイン担当。1回目の判定 1〜8・実装条件への対応）
+1. **掘った所がぼかした四角い汚れ** → 毛のスタンプを不透明（2値）にし、削った穴の縁をぎざぎざのまま硬くした（半透明で薄く残る所を無くした）。上の層に厚みを付けた: 穴の右下側の縁に明るい欠け面 #8a938e（1.8px）、左上側の縁から穴へ落ちる硬い影 #3a4546（2.5px）。ぼかしは使わず、上の層をずらして抜くだけ（`crustEdges`）。骨のまわりの暗いにじみは 2.6px のずらし重ね → 1.5px に絞った（`boneHalo`）。scene の穴の中に削り残しの島が1つ硬い縁で残る
+2. **こする前の骨の影が茶色のしみ** → 浮き彫りに替えた（`ghostRelief`: 骨の形の左上の縁を #8d968f、右下の縁を #545e5c で 1.6px、茶は alpha 0.1。ぼかさない）。ただの石は灰色のにじみだけで浮き彫りが無い（`ghostFake`）。見本帳の「見分け」の影の板を、本物（左・浮き彫り）／ただの石（右・にじむだけ）に差し替え、説明も「浮き彫りの縁／にじむだけ」に（色に頼らない）
+3. **大きな板の横縞** → 頁岩の質感を作り直した（`shaleTex`）: 層の帯は板ごとに 2〜3本、幅 3〜14px・間隔 18〜50%（1:2.5 以上のばらつき）、板の傾きに沿ってゆるくうねり、途中で消える（帯ごとの濃さを横方向のノイズで 0 まで落とす）。地は等方の低い周波数のむらに。風化面の筋も 0.22 → 0.1 に弱めた。団塊は骨・影と紛れるので置いていない
+4. **単独の椎骨が王冠・山・葉** → 椎骨を「両端が広がった糸巻きの椎体（なめらかなくびれ、両端の関節面に暗い細い楕円）＋尾の側へ傾いた1本の幅広で先の丸い棘」の2部品に描き直した（尖った角・小突起を廃止、欠けは丸い棘の角1つだけ）。見本帳は単独の椎骨を無くし、**すべて2〜4個つなぎ＋肋骨**に差し替えた（骨の部品・見分け・こすりの4段階）
+5. **肋骨が均一な管** → 先は根元の約 1/3 まで細る（`1 − t^0.8 × 0.66`）、先端は不揃いの折れ口（1点ずらす）。長さ方向のむらは骨の質感の大きいむらで出す
+6. **割れた板の弁柄が赤い線** → 割れた2枚の縁に板の厚みの暗い面（#141b1d、約4px）を入れ、下の1枚を 0.055rad 回して割れ目の幅を左 4px → 右 14px ほどに不揃いにした。明るい赤の縁取りは消え、のぞく作業台は2枚の濃い影の下に沈む
+7. **ひびと紛らわしい細い黒い線** → 剥がれ段（`flakeSteps`）を scene から外し、関数でも暗い縁を描かないようにした。毛の跡の筋も暗い線をやめて明るい細い線だけに。板の上の黒い折れ線はひびだけになった
+8. **綿がくしゃくしゃの紙** → しわの明暗を半分にし、縁から細い繊維を数本ずつはみ出させた
+- 実装条件: §9 に「（再審査で追加）」として3項目を足した。見本も `ctx.filter`・`shadowBlur`・`setLineDash` を使っていない（ずらし重ねと destination-out だけ）
+- 作者の自己見積もり（修正後）: 8/10。残る心配: scene の背骨は肋骨と合わせると「キ」の字の並びにやや寄る（棘を尾の側へ傾けて弱めた）。見本帳の小さい板の影（見分け）は等倍だと浮き彫りが控えめ
+
+### 再審査（2026-10-13・ミニゲーム工場の美術監査、作った本人以外。2回目＝最後の事前審査）
+- 見たもの: plan.md、本書 §0〜§10（1回目の指摘と修正内容）、design/scene.png（780×1688 を等倍・半分に縮めた実寸の両方）、design/sheet.png（「見分け」「こする」の段を切り出して拡大）、game-art-direction §0・§2
+- **予想スコア: 8/10**（合格ラインちょうど。下の実装条件を守ることが前提）
+- 前回の指摘 1〜8 の確認
+  1. 掘った所のぼかした四角い汚れ → **直った**。穴の縁はぎざぎざの硬い縁になり、左上から落ちる硬い影と右下の明るい欠け面で「上の層を剥がした厚み」が読める。削り残しの島も硬い縁。骨のまわりのにじみも細い。ただし scene の穴の外形は**大きな四角の継ぎはぎ**（直線の長い辺・直角の角）で、ここだけデジタルの矩形選択に見える。実装では指の軌跡で決まるので消える見込みだが、条件 A を付ける
+  2. 骨の影が茶色のしみ → **直った**。scene 右下・sheet「こする前」とも、椎骨と肋骨の形が浮き彫りの縁で読め、茶のしみに見えない。「見分け」の右（ただの石）は灰色のにじみだけで、浮き彫りの有無で区別できる（色に頼らない）。ただし sheet の小さい板では浮き彫りが控えめ（デザイン担当の懸念は当たり。等倍の 390 幅だと本物の縁がやっと見える程度）→ 条件 B
+  3. 大きな板の横縞 → **ほぼ直った**。帯は 2〜3 本・途中で消える・太さ不揃いになり、刷毛の横縞には見えない。sheet の「骨の部品」の大板にはまだ長い水平の白っぽい帯が 3〜4 本残るが、ゲームの板は scene 相当で、scene では目立たない。帯の向きが板の傾きと揃っていない所がある → 条件 C
+  4. 単独の椎骨が王冠・山・葉 → **直った**（尖った角が無くなり、糸巻き＋丸い棘で椎骨に読める。単独の椎骨も無い）。ただし sheet の2個つなぎは1個ずつが「T字・手斧の頭」寄り。つながっていれば背骨に読めるので許容
+  5. 肋骨が均一な管 → **直った**。根元のこぶから先細り、折れ口が不揃い、2本は折れてずれる
+  6. 割れた板の弁柄が赤い線 → **直った**。割れ目の両縁に暗い厚みが入り、のぞく作業台は幅の不揃いな隙間として読める（記号・血には見えない）
+  7. ひびと紛らわしい黒い細線 → **直った**。scene・sheet とも、白線の無い黒い折れ線は板の上に無い。黒い折れ線はひびだけ
+  8. 綿 → **直った**（許容範囲）。トレーの「頭」の下あごはまだ「のこぎり・櫛」寄りだが、小さい札の中なので減点は小さい
+- デザイン担当の残る懸念
+  - **背骨と肋骨の「キ」の字の並び → 当たり。いまの見本で最も AI っぽく（記号っぽく）見える所**。scene を実寸に縮めると、まっすぐ縦の背骨から左へ水平の棘、右へ水平に出てから曲がる肋骨が同じ間隔で並び、漢字の「毛」「手」やカタカナ「キ」を重ねた記号に読める。原因は ① 背骨の軸が板に対して真っすぐ縦、② 棘がほぼ水平で長さが揃う、③ 肋骨の出る角度が揃って直角、④ 間隔が等しい。sheet の椎骨列（棘が尾側へ大きく傾く）は記号に見えないので、scene の並べ方の問題。→ 条件 D で実装時に必ず直す（形の部品は変えなくてよい）
+  - 小さい板の浮き彫りが控えめ → 当たり。ゲームの板は scene の大きさなので致命ではないが、本物／ただの石の見分けは判断の要素なので条件 B
+- 骨・ひび・石目のゲーム中の見分け（再確認）: **見分けられる**。骨＝飴色の不透明な面で右下に硬い陰、ひび＝黒い角ばった裂け目＋ダーマトの白い2本線、石目＝縁のぼやけた灰白の帯。唯一の紛れは「石目の白っぽい帯」と「ダーマトの白線」がどちらも板の上の明るい線であること（sheet の大板・見分けの板）。ダーマトは細く硬く2本ずつ、石目は太くぼやけて1本ずつで区別はつくが、条件 C で石目の明るさに上限を置く
+- §2 の定番: 当たらない（ネオン・クリーム＋テラコッタ・角丸カード・全大文字・→・等幅数字・定型のあおり文句なし。書体は Hina Mincho＋Murecho の2書体）
+- **実装で守る条件**（§9 と1回目の条件に加えて。実装後の qa/start.png・qa/play.png でこの A〜E も確かめる）
+  - A. 削った穴の外形は毛のスタンプを指の軌跡に沿って押した結果だけで作る。四角の塗り・長い直線の辺・直角の角が出ないこと（デモ・自動QA用に初期状態の穴を作るなら、軌跡を描いて作る）
+  - B. こする前の骨の浮き彫りは、等倍（dpr 1・390 幅）で本物の板の縁が見えること。明るい縁 #8d968f／暗い縁 #545e5c の幅を 2px（dpr 2 なら 4 実px）以上、または上の層との明度差を今より 1 段強める。ただの石は浮き彫り無しのまま。qa/play.png に「こする前」の本物の板が写る所で確かめる
+  - C. 石目の帯は 1 枚に 2〜3 本、向きは板の傾き（-3〜-6°）±5° 以内、帯の最も明るい所でも風化面との明度差を小さく（ダーマトの白 #efeee6 に近づけない）、縁は必ずぼやける（硬い縁・2本並びにしない）。ダーマトの線と取り違えないこと
+  - D. **背骨の並べ方**（最重要）: ① 背骨の軸は板の中で斜め（縦から 20〜40°）かつゆるく反らせる（真っすぐ縦にしない）、② 棘は尾の側へ 25° 以上傾け、長さを ±25% ばらつかせる、③ 肋骨は根元から斜め下（尾の側）へ出し、出る角度を 1 本ずつ ±10° 以上ずらす、④ 椎骨の間隔・大きさを少しずつ変え、外れた骨を1つ入れる。実寸に縮めて「キ」「毛」「手」の字に見えないことを確かめる
+  - E. 初期の板（1〜3枚目）にも C・D が効いていること（最初の画面が qa/start.png・play.png の評価になるため）
+- 判定: 1回目の指摘 1〜8 は直り、残る弱点（背骨の記号っぽさ・小さい板の浮き彫り）は部品の形ではなく並べ方と強さの問題で、実装条件 A〜E で直せる。題材・配色・UI の骨組みは強く、このまま条件を守って作れば 8/10 に届くと判断する。届かなければ D から先にコンセプトに戻る
+
+VERDICT: PASS
